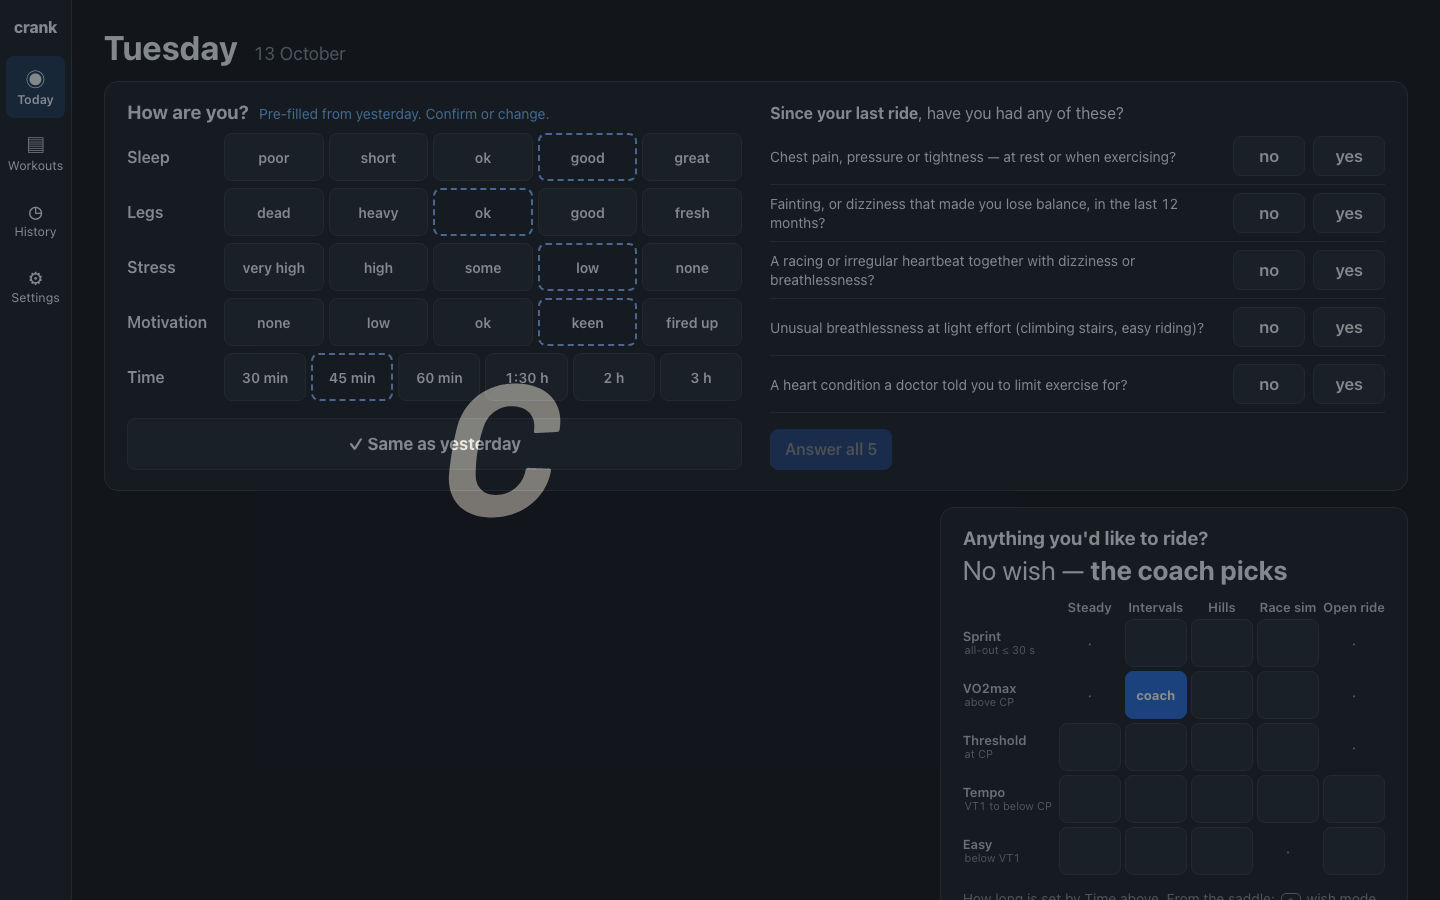
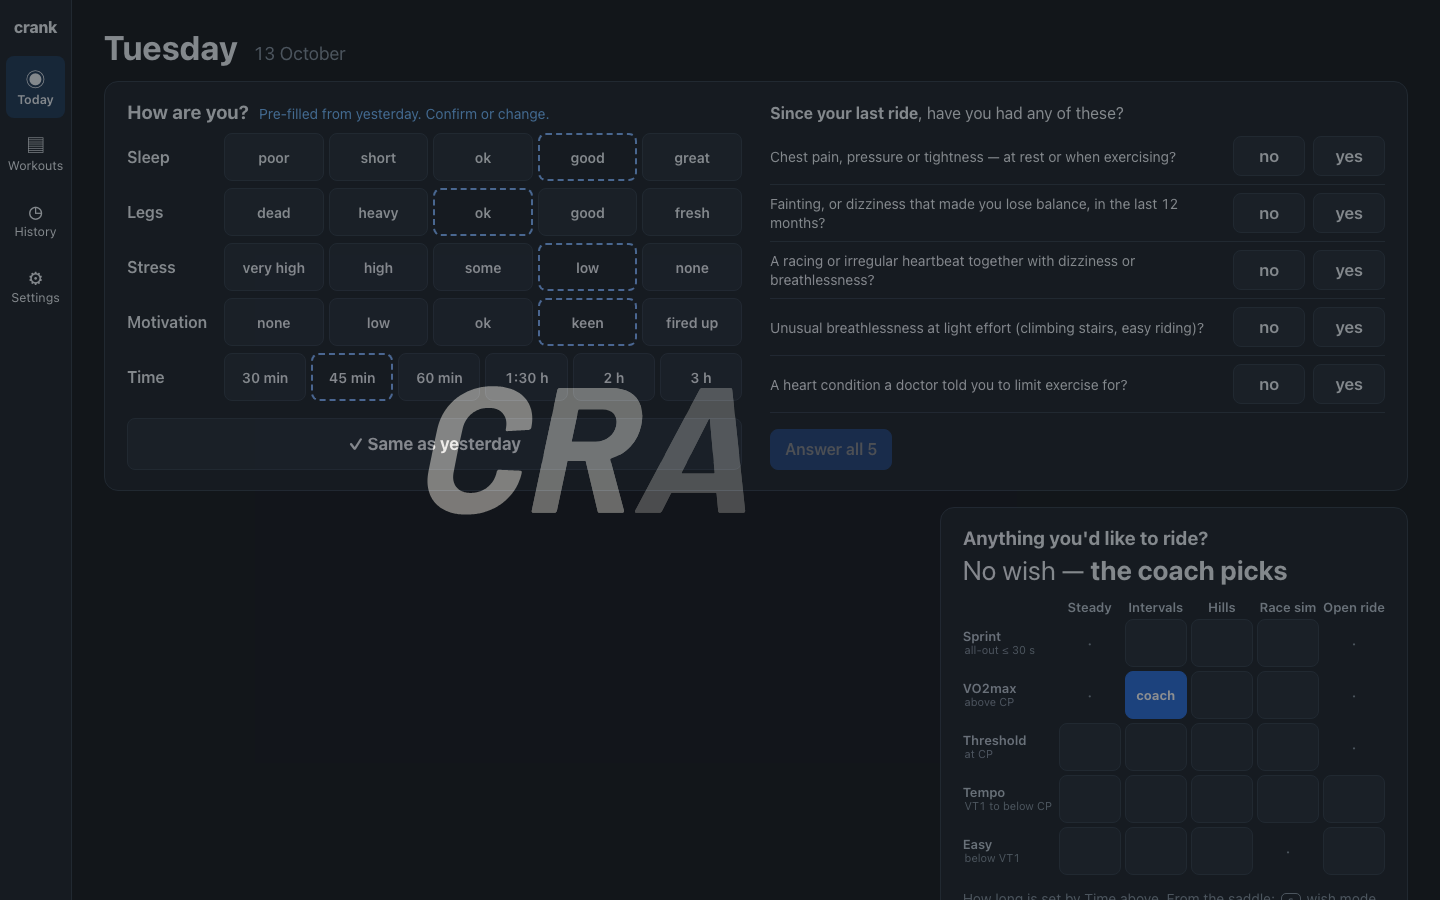
fix(design): freeze CSS animations at creation in brand captures; pin prototype hand-off to t=700; HMR-safe drawer listener
Brand motion/compare frames set each CSS animation to an instant, but the animations run on the document timeline: a
short backwards-fill animation could finish during a slow load, leave getAnimations() and render at rest.

Refs: #189

Changed region(s): [[0.2812, 0.4044, 0.5312, 0.5911]]

diff --git a/design/brand/scripts/screens.ts b/design/brand/scripts/screens.ts
@@ -50,12 +50,26 @@ const spinEnds = [...LETTER_START.map((s) => s + SPIN.letter), SPIN.slice[0] + S
 if (SPIN.end > 1100 || Math.max(...spinEnds) > SPIN.end) failures.push(`spin: motion ends at ${Math.max(...spinEnds)} ms (end ${SPIN.end}, target 1100)`);
 console.log(`  spin: R A N K start at ${LETTER_START.join(" / ")} ms; at rest by ${Math.max(...spinEnds)} ms`);
 
-/** `paused`: the fake clock moves only by `runFor` (installed clocks otherwise also flow in real time). */
-async function open(page: Page, name: string, query: string, paused = false) {
+/** `paused`: the fake clock moves only by `runFor` (installed clocks otherwise also flow in real time).
+ *  `freezeCss`: every CSS animation is created paused at its start. CSS animations run on the document timeline, which
+ *  the fake clock does not drive: without this a 300–800 ms `backwards`-fill animation can finish during a slow load,
+ *  drop out of `document.getAnimations()` and render at rest, so a frame set "to t" is a blank or settled frame (#189). */
+async function open(page: Page, name: string, query: string, paused = false, freezeCss = false) {
   page.on("pageerror", (e) => failures.push(`${name}: ${e.message}`));
   page.on("console", (m) => m.type() === "error" && failures.push(`${name}: console: ${m.text()}`));
   await page.clock.install({ time: 0 });
   if (paused) await page.clock.pauseAt(1000);
+  if (freezeCss)
+    await page.addInitScript(() => {
+      const style = document.createElement("style");
+      style.textContent = "*, ::before, ::after { animation-play-state: paused !important; }";
+      // the document element does not exist yet when init scripts run
+      new MutationObserver((_, o) => {
+        if (!document.head) return;
+        document.head.append(style);
+        o.disconnect();
+      }).observe(document, { childList: true, subtree: true });
+    });
   await page.goto(`${base}?${query}`);
   await page.waitForSelector("svg");
   const m = await page.evaluate(() => {
@@ -88,7 +102,7 @@ try {
     for (const t of FRAMES) {
       const name = `motion.${id}.${String(t).padStart(4, "0")}ms`;
       const page = await ctx.newPage();
-      await open(page, name, `concept=${id}&theme=dark`);
+      await open(page, name, `concept=${id}&theme=dark`, false, true);
       const over = await page.evaluate((at) => {
         let longest = 0;
         for (const a of document.getAnimations()) {
@@ -132,7 +146,7 @@ async function bootAndHandOff() {
       await page.close();
 
       page = await ctx.newPage();
-      await open(page, `handoff.${tag}`, `concept=slice&theme=${theme}&ready=600`);
+      await open(page, `handoff.${tag}`, `concept=slice&theme=${theme}&ready=600`, false, true);
       await page.clock.runFor(600);
       const s = await page.evaluate(() => ({
         start: !!document.querySelector(".start"),
@@ -379,7 +393,7 @@ async function compareSheet(theme: (typeof THEMES)[number]) {
   const cells: { label: string; png: Buffer }[] = [];
   for (const [i, t] of STORY.entries()) {
     const page = await ctx.newPage();
-    await open(page, `compare.${theme}.${t}`, `concept=slice&theme=${theme}`);
+    await open(page, `compare.${theme}.${t}`, `concept=slice&theme=${theme}`, false, true);
     await page.evaluate((at) => {
       for (const a of document.getAnimations()) {
         a.pause();

diff --git a/design/prototype/src/views/Workouts.tsx b/design/prototype/src/views/Workouts.tsx
@@ -21,9 +21,13 @@ export const libraryOpen = createStore(false);
 const DRAWER_MEDIA = "(max-width: 1279px)";
 // Crossing to ≥ 1280 px closes the drawer. Owned here, with the state, not by the mounted view: it must also close
 // while another place is showing, or it would come back as a modal when the window shrinks again (DESIGN §16.3, #189).
-matchMedia(DRAWER_MEDIA).addEventListener("change", (e) => {
+const closeOnWide = (e: MediaQueryListEvent) => {
   if (!e.matches) libraryOpen.set(false);
-});
+};
+const drawerQuery = matchMedia(DRAWER_MEDIA);
+drawerQuery.addEventListener("change", closeOnWide);
+// a hot reload re-runs this module: drop the old listener so they do not accumulate
+import.meta.hot?.dispose(() => drawerQuery.removeEventListener("change", closeOnWide));
 /** True while the library is a drawer (the window is below 1280 px). */
 function useDrawerMode() {
   return useSyncExternalStore(

diff --git a/docs/design/DESIGN.md b/docs/design/DESIGN.md
@@ -1222,7 +1222,7 @@ T1 below it is still the block countdown), Focus keeps the second slot's exact b
 | Decision | What it is | Why |
 |---|---|---|
 | **Check-in collapses** | Once confirmed (Same as yesterday, or any change) **and** today's red flags answered, the check-in is one summary line: "sleep short · legs heavy · stress some · motivation keen · 60 min · no red flags" + *Edit*. *Edit* re-opens it in place; while open, a change never collapses it mid-edit — **✓ Use these answers** closes it (disabled until the red flags are answered). | After confirming, the check-in is history; one line keeps it checkable without pushing the card down. **Start needs the check-in done and closed**: confirmed (Same as yesterday, or a change, §5.1), today's red flags answered (§5.8), and not open for editing — so Start, and Enter, only ever act on the saddle card the rider can see, above the fold. This is stricter than §5.1 alone (a change used to enable Start while the answers were still open), never looser. "Use these answers" is named differently from the red-flag check's *Done* so the two never read as one action. Under the disabled Start the desk card says what is missing: "Confirm how you feel and answer the health check to start" before the first confirmation, "Answer the health check to start" when only the red flags are left, and "Use these answers to finish editing and enable Start" while a done check-in is re-opened. |
-| **One proposal surface** | The full-width saddle proposal and the desk proposal card are one card with two forms. **Desk** (check-in open): outcome line, session · duration, profile, one reason + *Why?*, actions Start ⏎ · − Easier · + Harder · Ride my wish / Ride the full X; "Why today: every fact" discloses the other reasons (each with *Why?*), the facts and the model's confidence, and *Edit a copy in Workouts*. **Saddle** (check-in done): the same card at T3+ / T3 with **72 px actions pinned to its bottom edge**, always above the fold; the same "Why today: every fact" disclosure (desk-size type, collapsed) above the key hints; S (Skip) / Pause open wish mode, Keep returns to the coach's pick, hinted on the card **at T3** ("S other wish · N coach's pick"), above the fold — it is the only saddle cue for wish mode, so it must read at 1 m. The desk card does **not** stretch to the height of the matrix beside it: its actions follow its content, so Start is above the fold at 1440×900 in every desk state (check-in open, injury cap, carried-over note) and no empty band sits under "Why today" (#179). | Two cards said the same thing twice. Information is kept, not cut: the §5.1 facts, the §15.2 reasons and *Edit a copy* are one click away in both forms, and the first reason's *Why?* is on the card. **Shorter** is dropped from the card because the time is a check-in answer (§15.2: how long is Today's time) — it was a duplicate control. *Other wish* is dropped as a button: the matrix is beside the card at 1440, and wish mode is the bars' path (§15.2). One cursor: − / + on the card, Intensity − / + and the matrix all move the same wish (one outcome table, §15.2). |
+| **One proposal surface** | The full-width saddle proposal and the desk proposal card are one card with two forms. **Desk** (check-in open): outcome line, session · duration, profile, one reason + *Why?*, actions Start ⏎ · − Easier · + Harder · Ride my wish / Ride the full X; "Why today: every fact" discloses the other reasons (each with *Why?*), the facts and the model's confidence, and *Edit a copy in Workouts*. **Saddle** (check-in done): the same card at T3+ / T3 with **72 px actions pinned to its bottom edge**, always above the fold; the same "Why today: every fact" disclosure (desk-size type, collapsed) above the key hints; S (Skip) / Pause open wish mode, Keep returns to the coach's pick, hinted on the card **at T3** ("S other wish · N coach's pick"), above the fold — it is the only saddle cue for wish mode, so it must read at 1 m. The desk card does **not** stretch to the height of the matrix beside it: its actions follow its content, so Start is above the fold at 1440×900 in every desk state (check-in open, injury cap, carried-over note) and no empty band sits under "Why today" (#179). A gap under the desk card is therefore expected whenever the wish column is taller (e.g. a carried-over note under the matrix): "Last 7 days | Model" is one grid row across both columns, and the gap sits below the fold (#189, decided as designed). | Two cards said the same thing twice. Information is kept, not cut: the §5.1 facts, the §15.2 reasons and *Edit a copy* are one click away in both forms, and the first reason's *Why?* is on the card. **Shorter** is dropped from the card because the time is a check-in answer (§15.2: how long is Today's time) — it was a duplicate control. *Other wish* is dropped as a button: the matrix is beside the card at 1440, and wish mode is the bars' path (§15.2). One cursor: − / + on the card, Intensity − / + and the matrix all move the same wish (one outcome table, §15.2). |
 | **1440 layout** | Card 7fr | matrix 4fr, above the fold — the **complete** matrix, in every desk and saddle state. To keep it there with the check-in open: the injury-cap notice shares the date's line (one line at 1440: "⚠ Capped at threshold (100 % of CP, 280 W) · no sprints · ERG only — from your injury answer; lift it in Settings → Health"), and a carried-over wish's note sits under the matrix (the ↻ cell marks the wish itself). Last 7 days and Model in a strip under each column. Under a medical stop there is no matrix (§15.2), so the stop card spans both columns. | The proposal and the wish are the decision; history and the model are context. |
 | **1024 layout** | Stacked: summary line, the card (actions pinned at its bottom), then the matrix, Last 7 days, Model. The layout switches on the page's own width (CSS container query, < 1000 px), so 1440 with the *Why?* sheet pushed aside stacks too and the card keeps its full width. | A 4fr matrix in 912 px is too narrow for its five formats; the card must stay above the fold. |
 
